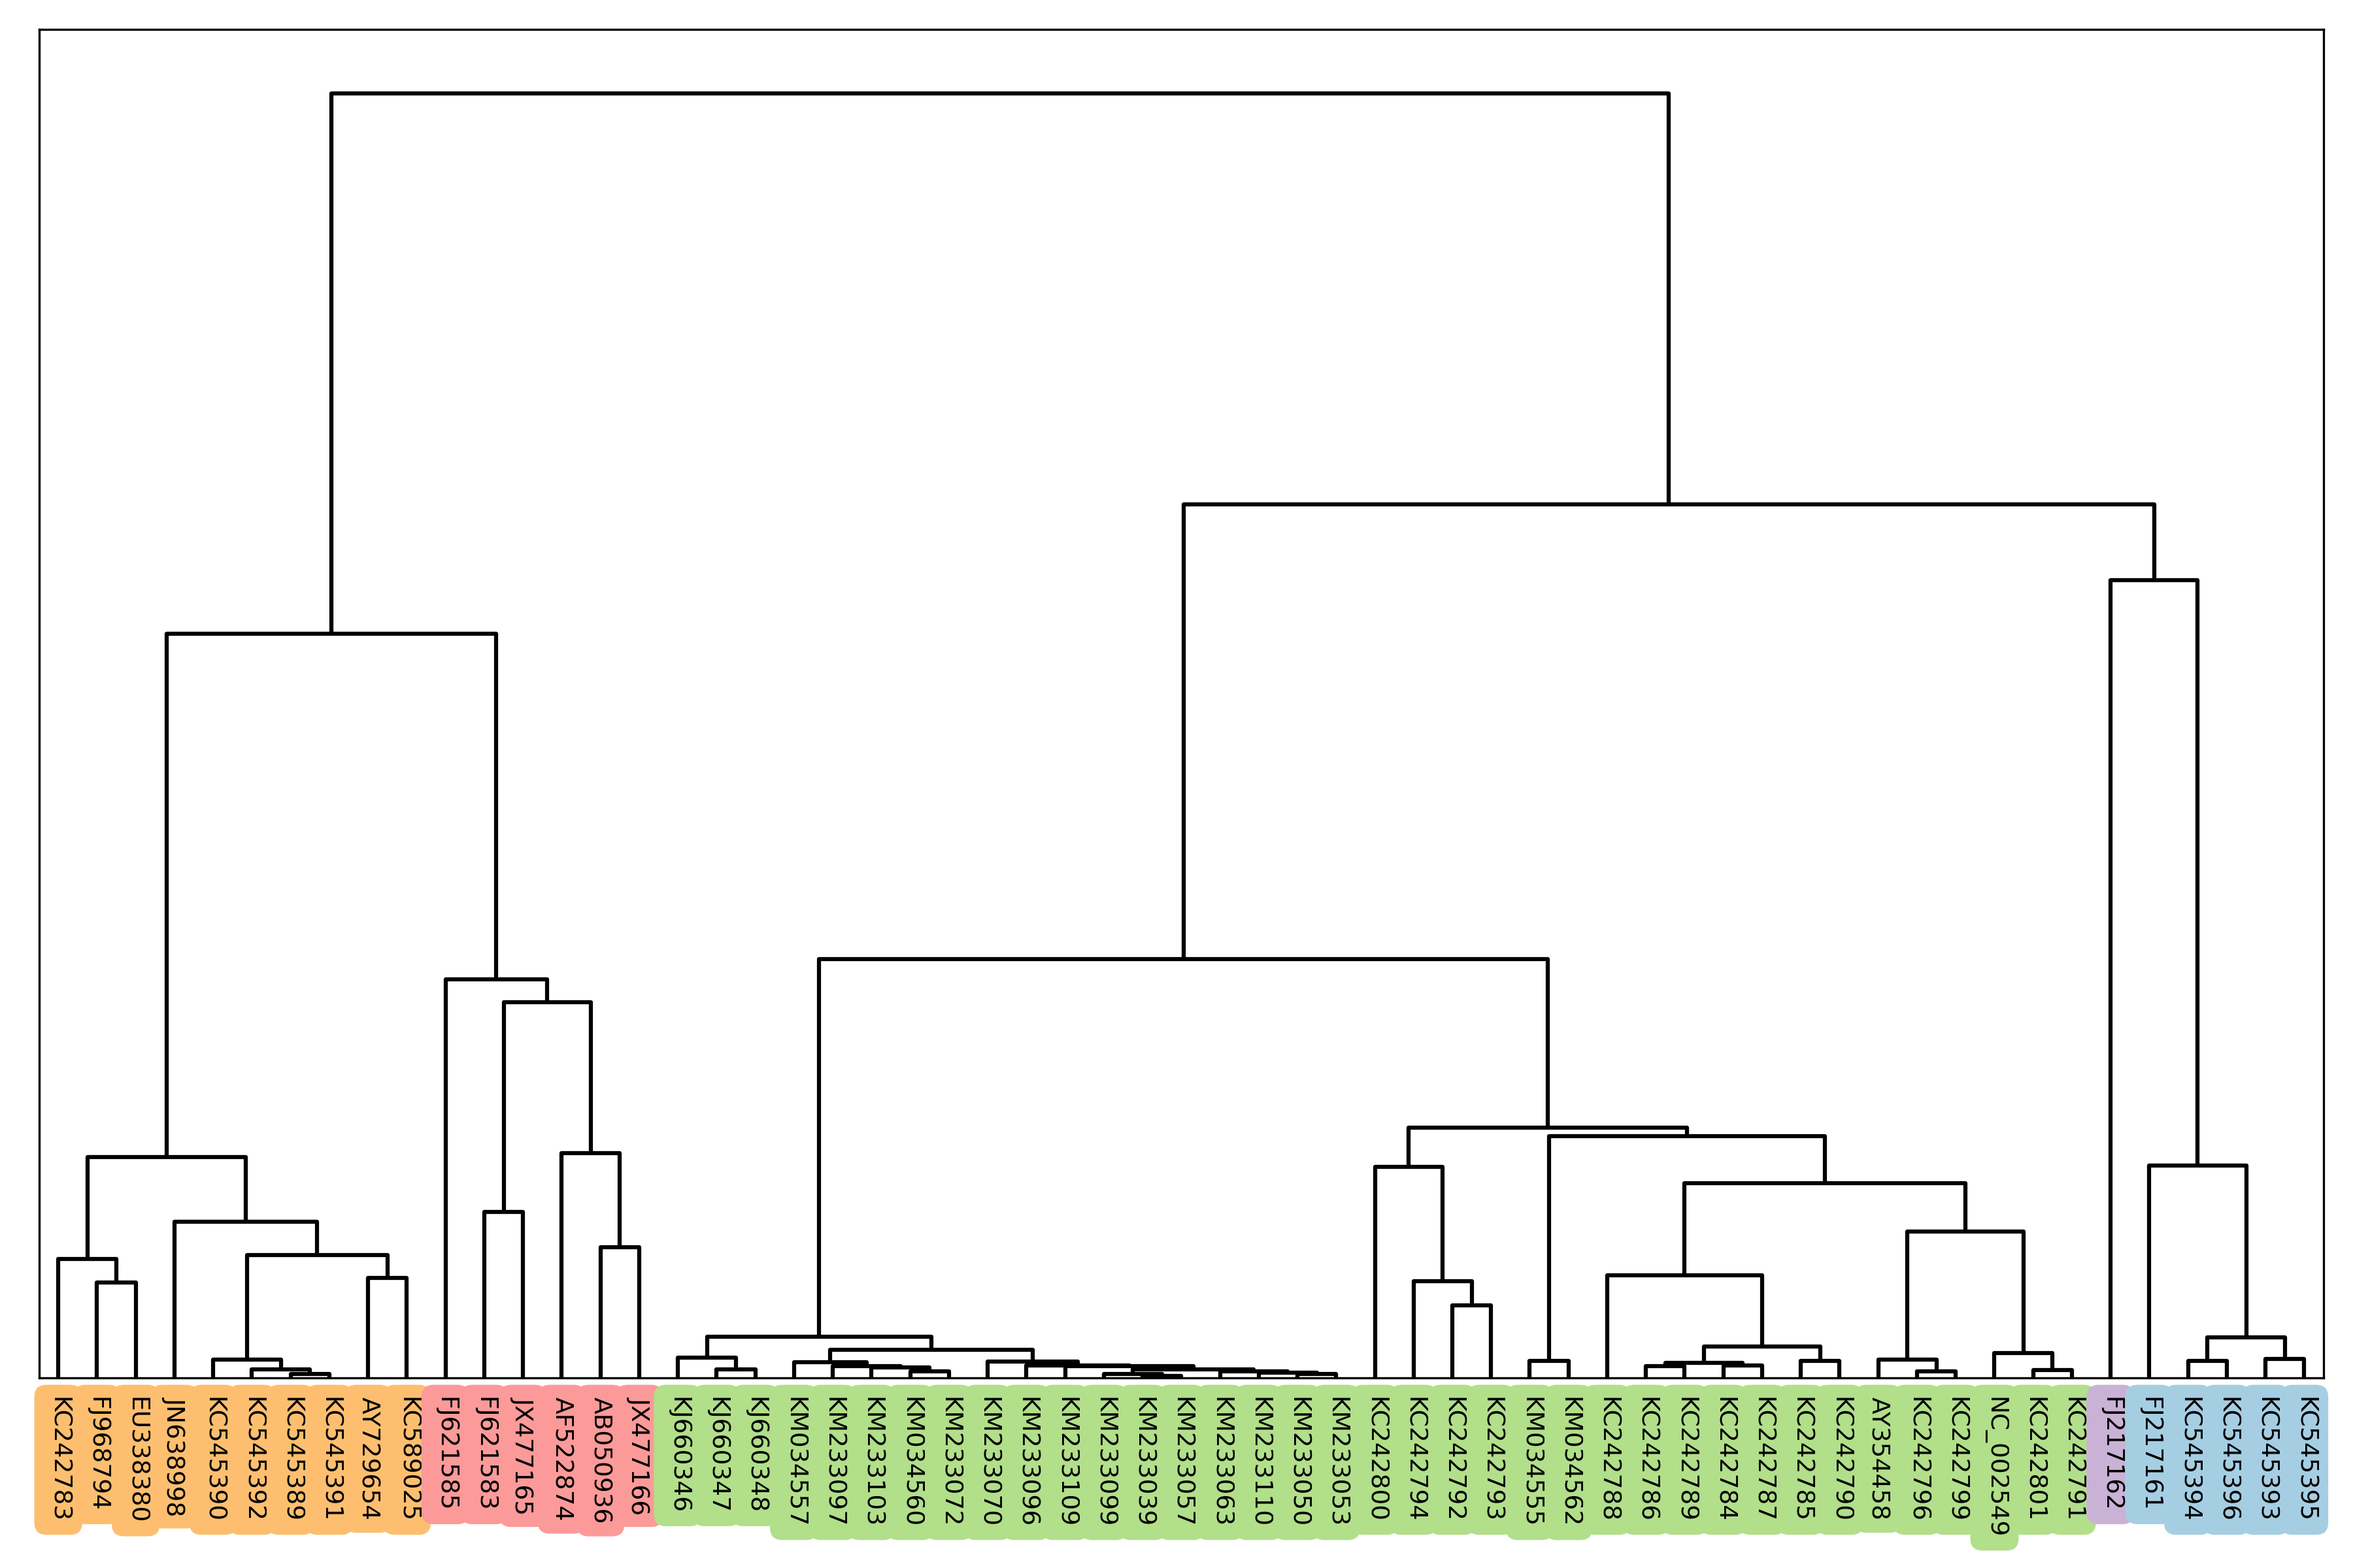
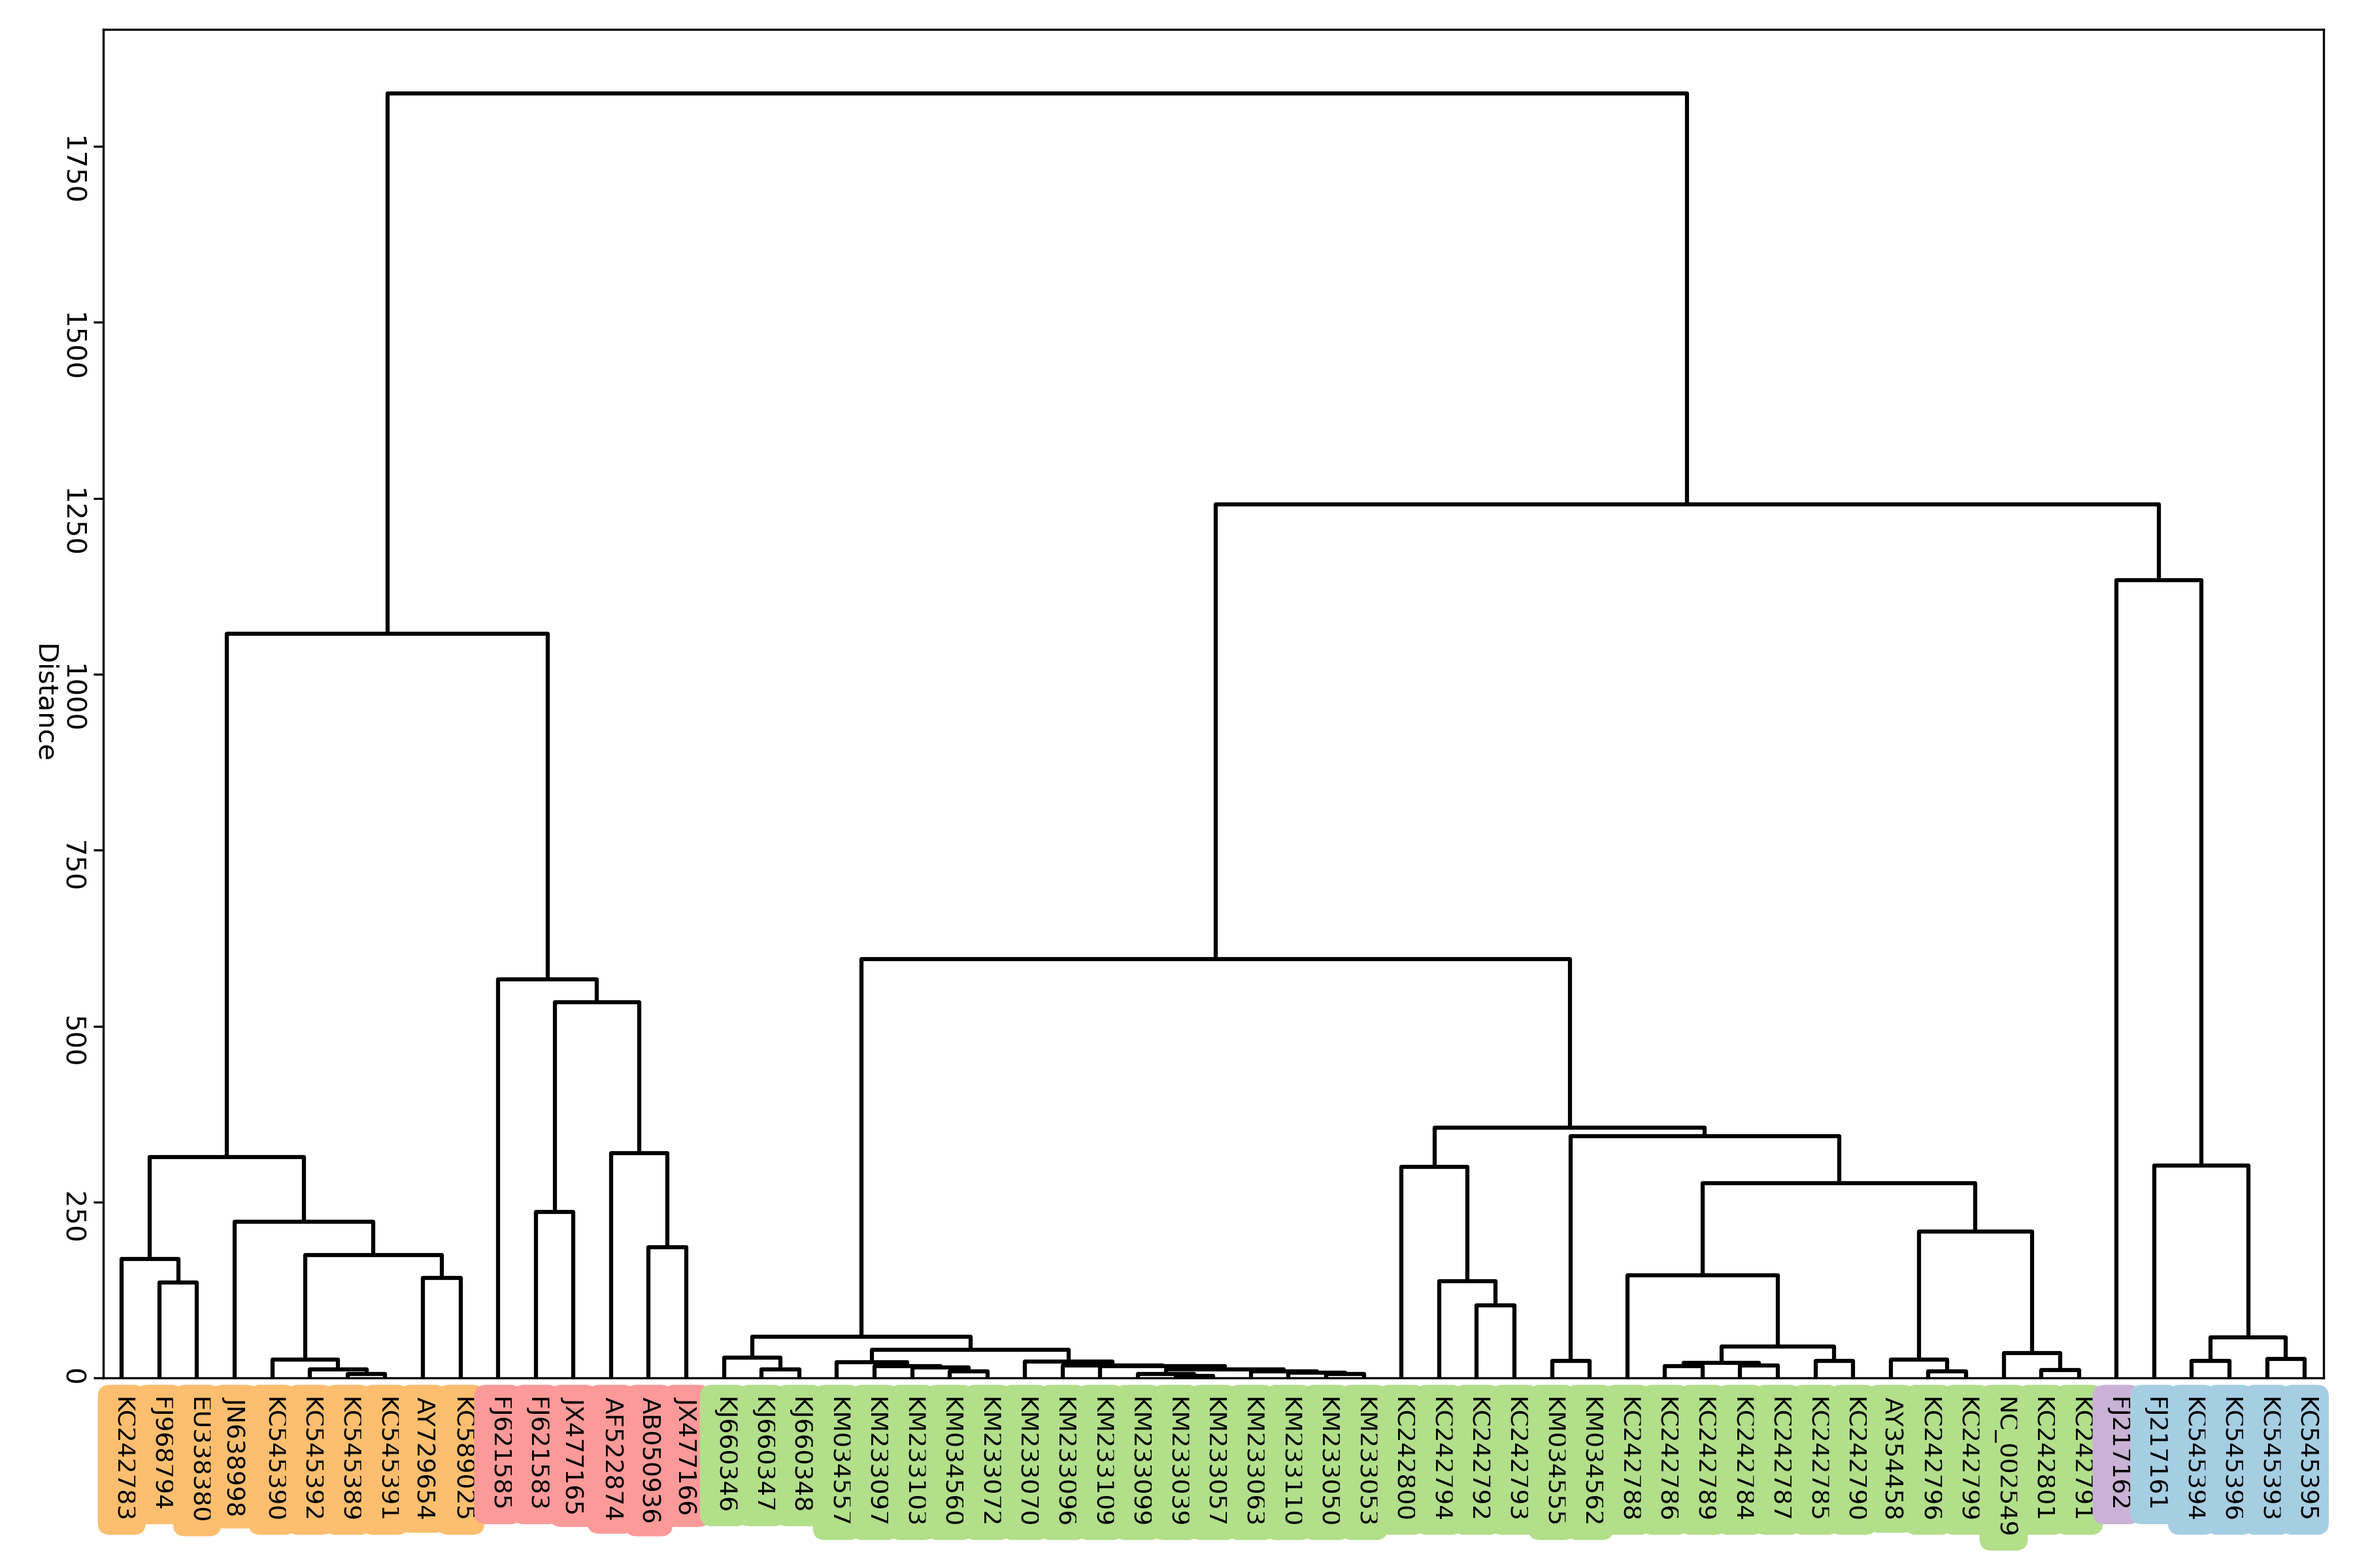
Add files via upload

diff --git a/main.py b/main.py
@@ -169,8 +169,9 @@ def upgma_clustering(feature_matrix, labels, colors, metric='cityblock', title='
         color = colors.get(text, 'gray')  # Default to gray if not found in colors mapping
         label.set_bbox(dict(facecolor=color, edgecolor='none', boxstyle='round,pad=0.5'))
 
-    # Remove y-axis labels (if desired)
-    ax.get_yaxis().set_visible(False)
+    ax.get_yaxis().set_visible(True)
+    plt.ylabel("Distance",rotation="270",labelpad=10)
+    ax.yaxis.set_tick_params(rotation=270)  # Rotate y-axis tick labels    
     
     # Finalize the plot
     if title:
@@ -258,67 +259,19 @@ padded_vectors = [np.pad(vec, (0, max_length - len(vec)), 'constant') for vec in
 feature_matrix = np.array(padded_vectors)
 print(feature_matrix.shape)
 # 创建标签数组
-label_gene_origin = {
-    'FJ217161': 'BDBV',
-    'KC545393': 'BDBV',
-    'KC545395': 'BDBV',
-    'KC545394': 'BDBV',
-    'KC545396': 'BDBV',
-    'FJ217162': 'TAFV',
-    'AF522874': 'RESTV',
-    'AB050936': 'RESTV',
-    'JX477166': 'RESTV',
-    'FJ621585': 'RESTV',
-    'FJ621583': 'RESTV',
-    'JX477165': 'RESTV',
-    'FJ968794': 'SUDV',
-    'KC242783': 'SUDV',
-    'EU338380': 'SUDV',
-    'AY729654': 'SUDV',
-    'JN638998': 'SUDV',
-    'KC545389': 'SUDV',
-    'KC545390': 'SUDV',
-    'KC545391': 'SUDV',
-    'KC545392': 'SUDV',
-    'KC589025': 'SUDV',
-    'KC242801': 'EBOV',
-    'NC_002549': 'EBOV',
-    'KC242791': 'EBOV',
-    'KC242792': 'EBOV',
-    'KC242793': 'EBOV',
-    'KC242794': 'EBOV',
-    'AY354458': 'EBOV',
-    'KC242796': 'EBOV',
-    'KC242799': 'EBOV',
-    'KC242784': 'EBOV',
-    'KC242786': 'EBOV',
-    'KC242787': 'EBOV',
-    'KC242789': 'EBOV',
-    'KC242785': 'EBOV',
-    'KC242790': 'EBOV',
-    'KC242788': 'EBOV',
-    'KC242800': 'EBOV',
-    'KM034555': 'EBOV',
-    'KM034562': 'EBOV',
-    'KM233039': 'EBOV',
-    'KM034557': 'EBOV',
-    'KM034560': 'EBOV',
-    'KM233050': 'EBOV',
-    'KM233053': 'EBOV',
-    'KM233057': 'EBOV',
-    'KM233063': 'EBOV',
-    'KM233072': 'EBOV',
-    'KM233110': 'EBOV',
-    'KM233070': 'EBOV',
-    'KM233099': 'EBOV',
-    'KM233097': 'EBOV',
-    'KM233109': 'EBOV',
-    'KM233096': 'EBOV',
-    'KM233103': 'EBOV',
-    'KJ660346': 'EBOV',
-    'KJ660347': 'EBOV',
-    'KJ660348': 'EBOV',
-}
+# 设置 CSV 文件路径
+input_file = "ebolavirus_record.csv"
+output_file = "label_gene_origin.txt"
+
+# 读取 CSV 文件，从第二行开始，提取第2列和第4列
+df = pd.read_csv(input_file, header=0, usecols=[1, 4])
+
+# 构建标签字典
+label_gene_origin = {}
+for index, row in df.iterrows():
+    gene_id = row[0]  # 第2列数据（基因ID）
+    label = row[1]    # 第4列数据（标签）
+    label_gene_origin[gene_id] = label
 
 
 
